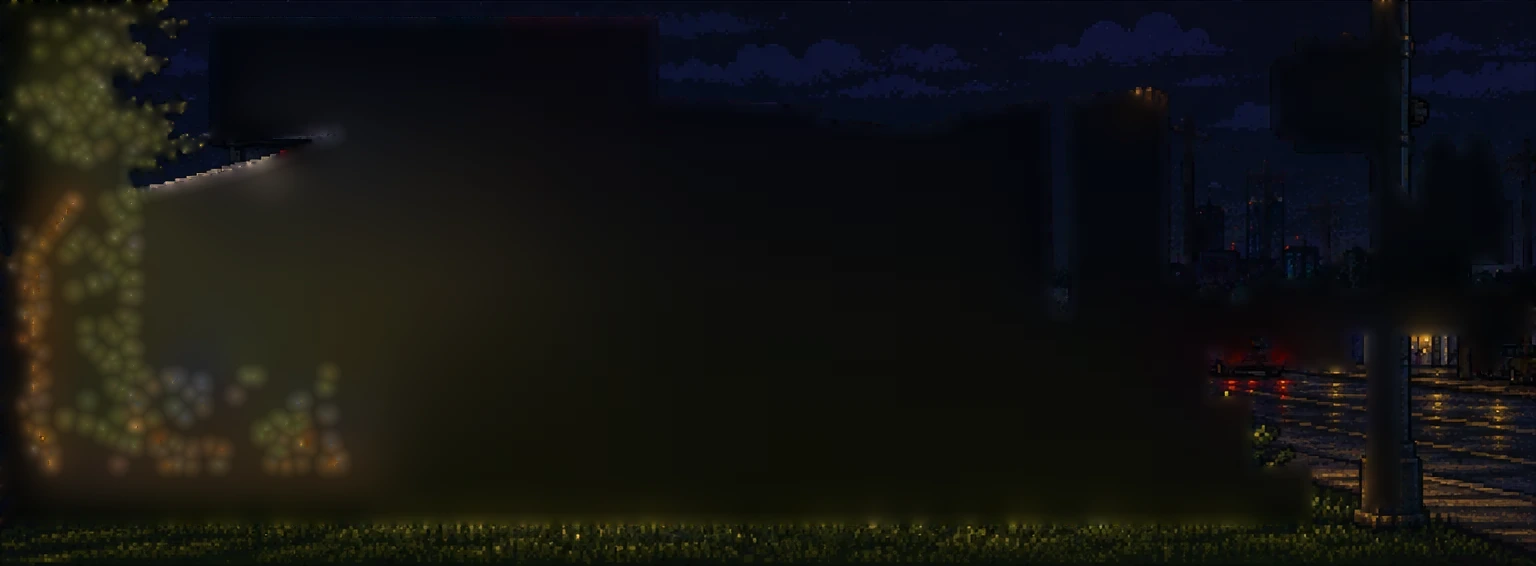
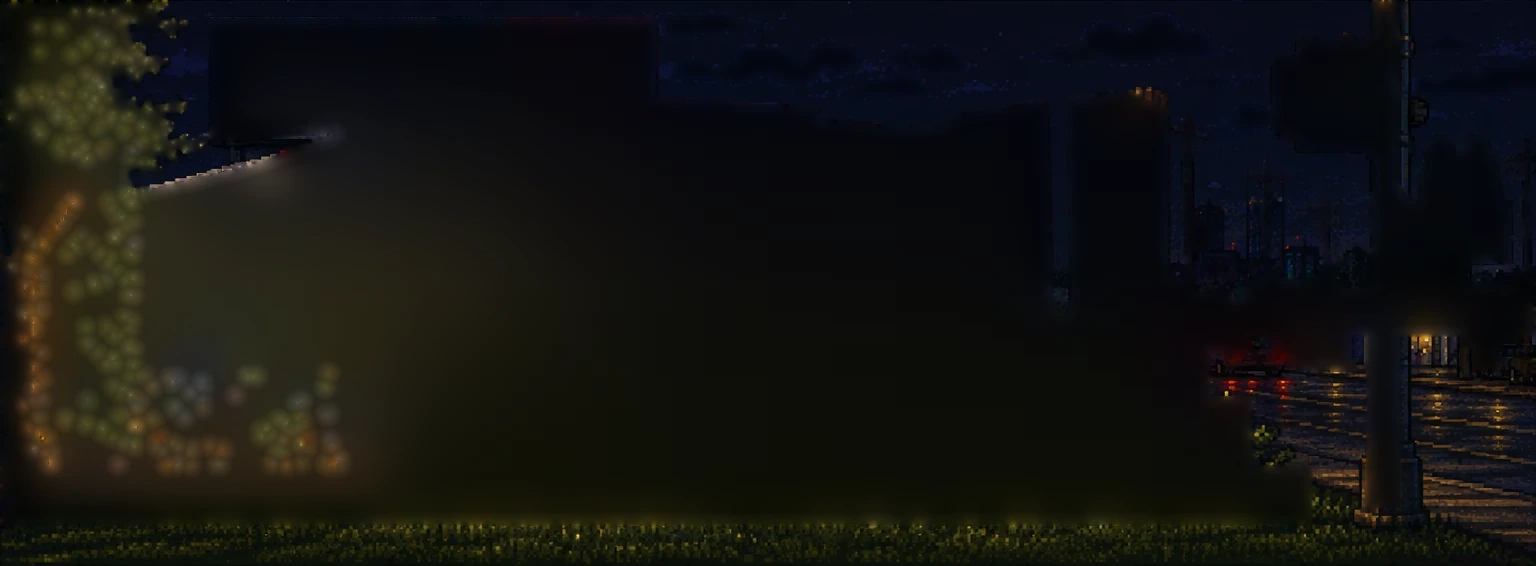
EAV clouds card, SAM coverage check, and a backdrop-multiplane skill
Three things:

CLOUDS ON EAV. SAM found the cloud bank across the top of the sky, which was
sitting on the base plate. It becomes the farthest card in the stage at depth
0.02. Everything else in EAV is untouched on purpose — the tree has hand-tuned
sway the client signed off on, and re-cutting it to gain nothing would be a bad
trade. Verified: eav-tree.webp is byte-identical after the change, and the
recompose check is unmoved at 0.070%.

COVERAGE CHECK. tools/sam_coverage.py renders what SAM MISSED rather than what
it found, which is the only way to catch the thing the client caught by eye:
the C and the I in CRIMINAL and the big CR monogram on L5P's Criminal Records
sign were simply absent. Unclaimed is not automatically wrong — sky is
unclaimed and should be — so gaps are scored by local contrast and only ones
carrying real structure are reported.

That check then showed raising the sampling grid is NOT the fix: 28 -> 48
moved L5P coverage 85.0% -> 86.0%. A letter that size lands under both the
area floor and the confidence bar, so --fine lowers those instead.

SKILL. .claude/skills/backdrop-multiplane/SKILL.md writes the process down:
the pipeline, and the rules that were paid for — keep the rate spread tiny or
cards migrate across the level, assign masks by containment because a centroid
rule puts the sky on a column, the sky is never a card, sub-masks are for glow
and not for drawing, and use int32 for luminance.
[…]

diff --git a/src/world/stages.js b/src/world/stages.js
@@ -25,6 +25,7 @@
 // every item lifted off it, plus one card per item. See that script for how
 // the cutting works and src/render/backdrop.js for how the cards are driven.
 import bgEav from '../assets/backgrounds/eav-base.webp';
+import eavClouds from '../assets/backgrounds/eav-clouds.webp';
 import eavSkyline from '../assets/backgrounds/eav-skyline.webp';
 import eavMcdonalds from '../assets/backgrounds/eav-mcdonalds.webp';
 import eavCars from '../assets/backgrounds/eav-cars.webp';
@@ -115,6 +116,7 @@ export const STAGES = [
       // billboard and canopy sharing the same horizontal band, and wobbled
       // the architecture anyway.
       cards: [
+        { key: 'clouds', img: eavClouds, depth: 0.02, span: [0.428, 1.000] },
         { key: 'skyline', img: eavSkyline, depth: 0.07, span: [0.780, 1.000] },
         { key: 'mcdonalds', img: eavMcdonalds, depth: 0.16, span: [0.913, 1.000] },
         { key: 'cars', img: eavCars, depth: 0.21, span: [0.784, 0.999] },

diff --git a/tools/sam_coverage.py b/tools/sam_coverage.py
@@ -1,0 +1,81 @@
+#!/usr/bin/env python3
+"""
+Check a SAM pass against the ORIGINAL plate: what did it miss?
+
+Looking at the proposal sheet only ever shows what SAM FOUND. The thing that
+matters for this project is what it did not — the C and the I in CRIMINAL, the
+large C and R on the Criminal Records sign, all of which a grid-28 pass walked
+straight past. This renders the complement: every pixel no mask claims, over
+the art, so the gaps are the thing you are looking at instead of the hits.
+
+Unclaimed is not automatically wrong. Sky is unclaimed and should be, and so
+is flat wall. What matters is unclaimed pixels that carry DETAIL — so gaps are
+scored by local contrast, and the report ranks the ones with real structure in
+them.
+
+Usage:
+    python3 tools/sam_coverage.py l5p
+"""
+
+import json
+import os
+import sys
+
+import numpy as np
+import scipy.ndimage as ndi
+from PIL import Image, ImageDraw
+
+ROOT = os.path.dirname(os.path.dirname(os.path.abspath(__file__)))
+BG = os.path.join(ROOT, 'src', 'assets', 'backgrounds')
+SAM = os.path.join(ROOT, 'tools', 'captures', 'sam')
+GROUND_FRAC = {'eav': 0.88, 'underground': 0.78, 'l5p': 0.80, 'edgewood': 0.82}
+
+
+def main():
+    stage = sys.argv[1]
+    im = Image.open(os.path.join(BG, f'{stage}.webp')).convert('RGB')
+    w, h = im.size
+    rgb = np.array(im.crop((0, 0, w, int(h * GROUND_FRAC[stage]))))
+    H, W = rgb.shape[:2]
+
+    M = np.load(os.path.join(SAM, f'{stage}_masks.npy'))
+    claimed = M.any(0) if len(M) else np.zeros((H, W), bool)
+    print(f'{stage}: {len(M)} masks cover {claimed.mean() * 100:.1f}% of the plate')
+
+    # Local contrast — the detail signal. A pixel in flat sky has none; a
+    # pixel on the edge of a letter has a lot.
+    g = rgb.astype(np.float32).mean(2)
+    detail = ndi.maximum_filter(g, 5) - ndi.minimum_filter(g, 5)
+    thresh = float(np.percentile(detail, 88))
+    missed = (~claimed) & (detail > thresh)
+    print(f'  unclaimed AND detailed: {missed.sum()} px '
+          f'({missed.sum() * 100.0 / (W * H):.2f}% of plate) '
+          f'at contrast > {thresh:.0f}')
+
+    lab, n = ndi.label(ndi.binary_closing(missed, np.ones((5, 5), bool)),
+                       np.ones((3, 3), bool))
+    sizes = np.bincount(lab.ravel())
+    sizes[0] = 0
+    objs = ndi.find_objects(lab)
+    big = [i for i in np.argsort(sizes)[::-1] if sizes[i] >= 150]
+    print(f'  {len(big)} missed regions of 150px or more:')
+    for i in big[:20]:
+        ys, xs = objs[i - 1]
+        print(f'     {int(sizes[i]):6d}px  x {xs.start:4d}..{xs.stop:4d}  '
+              f'y {ys.start:4d}..{ys.stop:4d}')
+
+    out = (rgb * 0.30).astype(np.uint8).copy()
+    out[claimed] = (out[claimed] * 0.55 + np.array((40, 90, 40)) * 0.45).astype(np.uint8)
+    out[missed] = (255, 40, 40)
+    img = Image.fromarray(out)
+    d = ImageDraw.Draw(img)
+    for i in big[:20]:
+        ys, xs = objs[i - 1]
+        d.rectangle([xs.start - 1, ys.start - 1, xs.stop, ys.stop],
+                    outline=(255, 255, 0))
+    img.save(os.path.join(SAM, f'{stage}_missed.png'))
+    print(f'  -> {stage}_missed.png  (RED = unclaimed detail, green tint = claimed)')
+
+
+if __name__ == '__main__':
+    main()

diff --git a/tools/sam_segment.py b/tools/sam_segment.py
@@ -44,19 +44,24 @@ def load_plate(stage):
     return np.array(im.crop((0, 0, w, int(h * GROUND_FRAC[stage]))))
 
 
-def generate(rgb, grid):
+def generate(rgb, grid, fine=False):
     from segment_anything import SamAutomaticMaskGenerator, sam_model_registry
     sam = sam_model_registry['vit_b'](checkpoint=CKPT)
     sam.to('cpu')
+    # FINE mode is for signage. The defaults are tuned to return objects, and
+    # they drop letters: on L5P a grid-48 pass still missed the C and the I in
+    # CRIMINAL and the big CR monogram, because a letter that size lands under
+    # both the area floor and the confidence bar. Raising the grid alone moved
+    # coverage 85.0% -> 86.0%; lowering the floors is what actually finds them.
     gen = SamAutomaticMaskGenerator(
         sam,
         points_per_side=grid,
-        pred_iou_thresh=0.80,
-        stability_score_thresh=0.88,
+        pred_iou_thresh=0.68 if fine else 0.80,
+        stability_score_thresh=0.80 if fine else 0.88,
         # These plates are dark and low-contrast; the default crop layers add
         # a lot of CPU time for very little on art this flat.
         crop_n_layers=0,
-        min_mask_region_area=400,
+        min_mask_region_area=60 if fine else 400,
     )
     return gen.generate(rgb)
 
@@ -100,14 +105,16 @@ def main():
     print(f'{stage}: {w}x{h} crop, points_per_side={grid} '
           f'({grid * grid} prompts) — CPU, this takes a while')
 
-    masks = generate(rgb, grid)
+    fine = '--fine' in sys.argv
+    masks = generate(rgb, grid, fine)
     print(f'  SAM returned {len(masks)} masks')
 
     # Rank by area. A card is worth having if it is big enough to read as its
     # own object and small enough not to be "most of the picture".
     masks.sort(key=lambda m: -m['area'])
-    keep = [m for m in masks if 400 <= m['area'] <= 0.55 * w * h]
-    print(f'  {len(keep)} in the usable size band (400px .. 55% of plate)')
+    floor = 80 if fine else 400
+    keep = [m for m in masks if floor <= m['area'] <= 0.55 * w * h]
+    print(f'  {len(keep)} in the usable size band ({floor}px .. 55% of plate)')
 
     os.makedirs(OUT, exist_ok=True)
     rec = []

diff --git a/tools/cut_planes.py b/tools/cut_planes.py
@@ -380,6 +380,18 @@ def pyramid_inpaint(rgb, hole, levels=9):
 PLANES = {
     'eav': [
         {
+            # Cloud bank across the top of the sky — SAM-traced, and the only
+            # thing in this plate farther away than the skyline. Everything
+            # else here was cut before SAM existed and is left exactly as it
+            # is; the tree in particular has hand-tuned sway the client
+            # signed off on, and re-cutting it to gain nothing would be a
+            # bad trade.
+            'name': 'clouds',
+            'mask': 'clouds',
+            'min_px': 150,
+            'feather': 1.6,   # soft-edged in the art; keep them soft
+        },
+        {
             # Downtown skyline and the lit storefront row across the
             # intersection — the farthest built thing in frame.
             'name': 'skyline',
